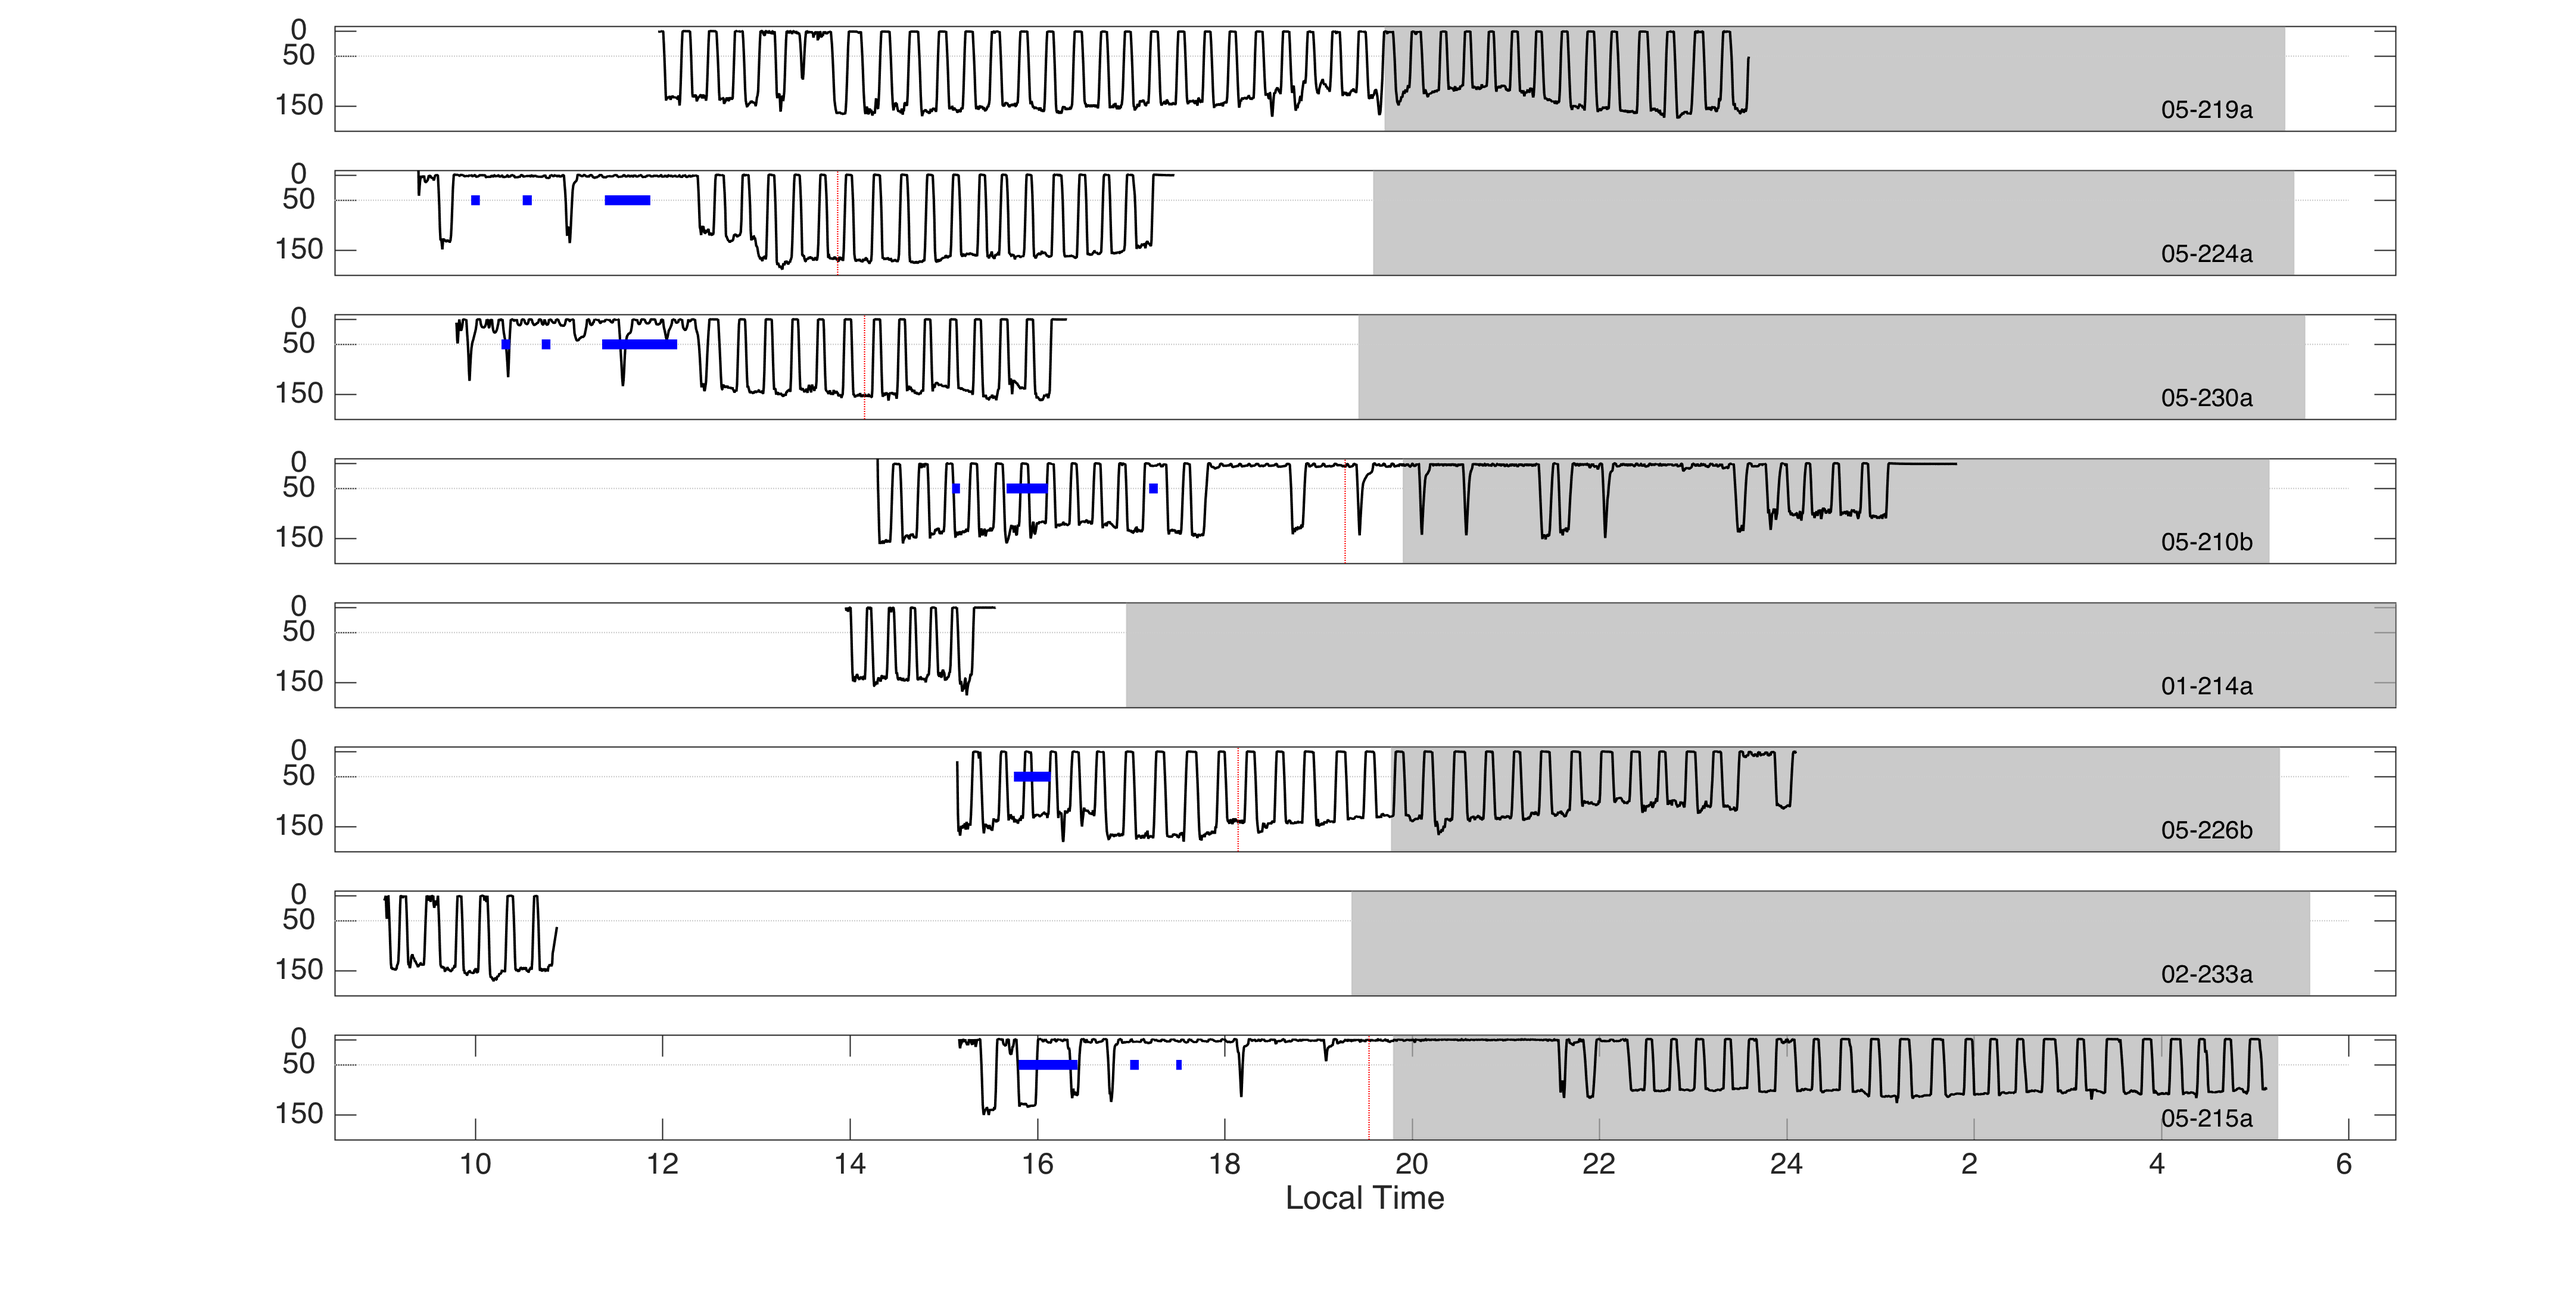
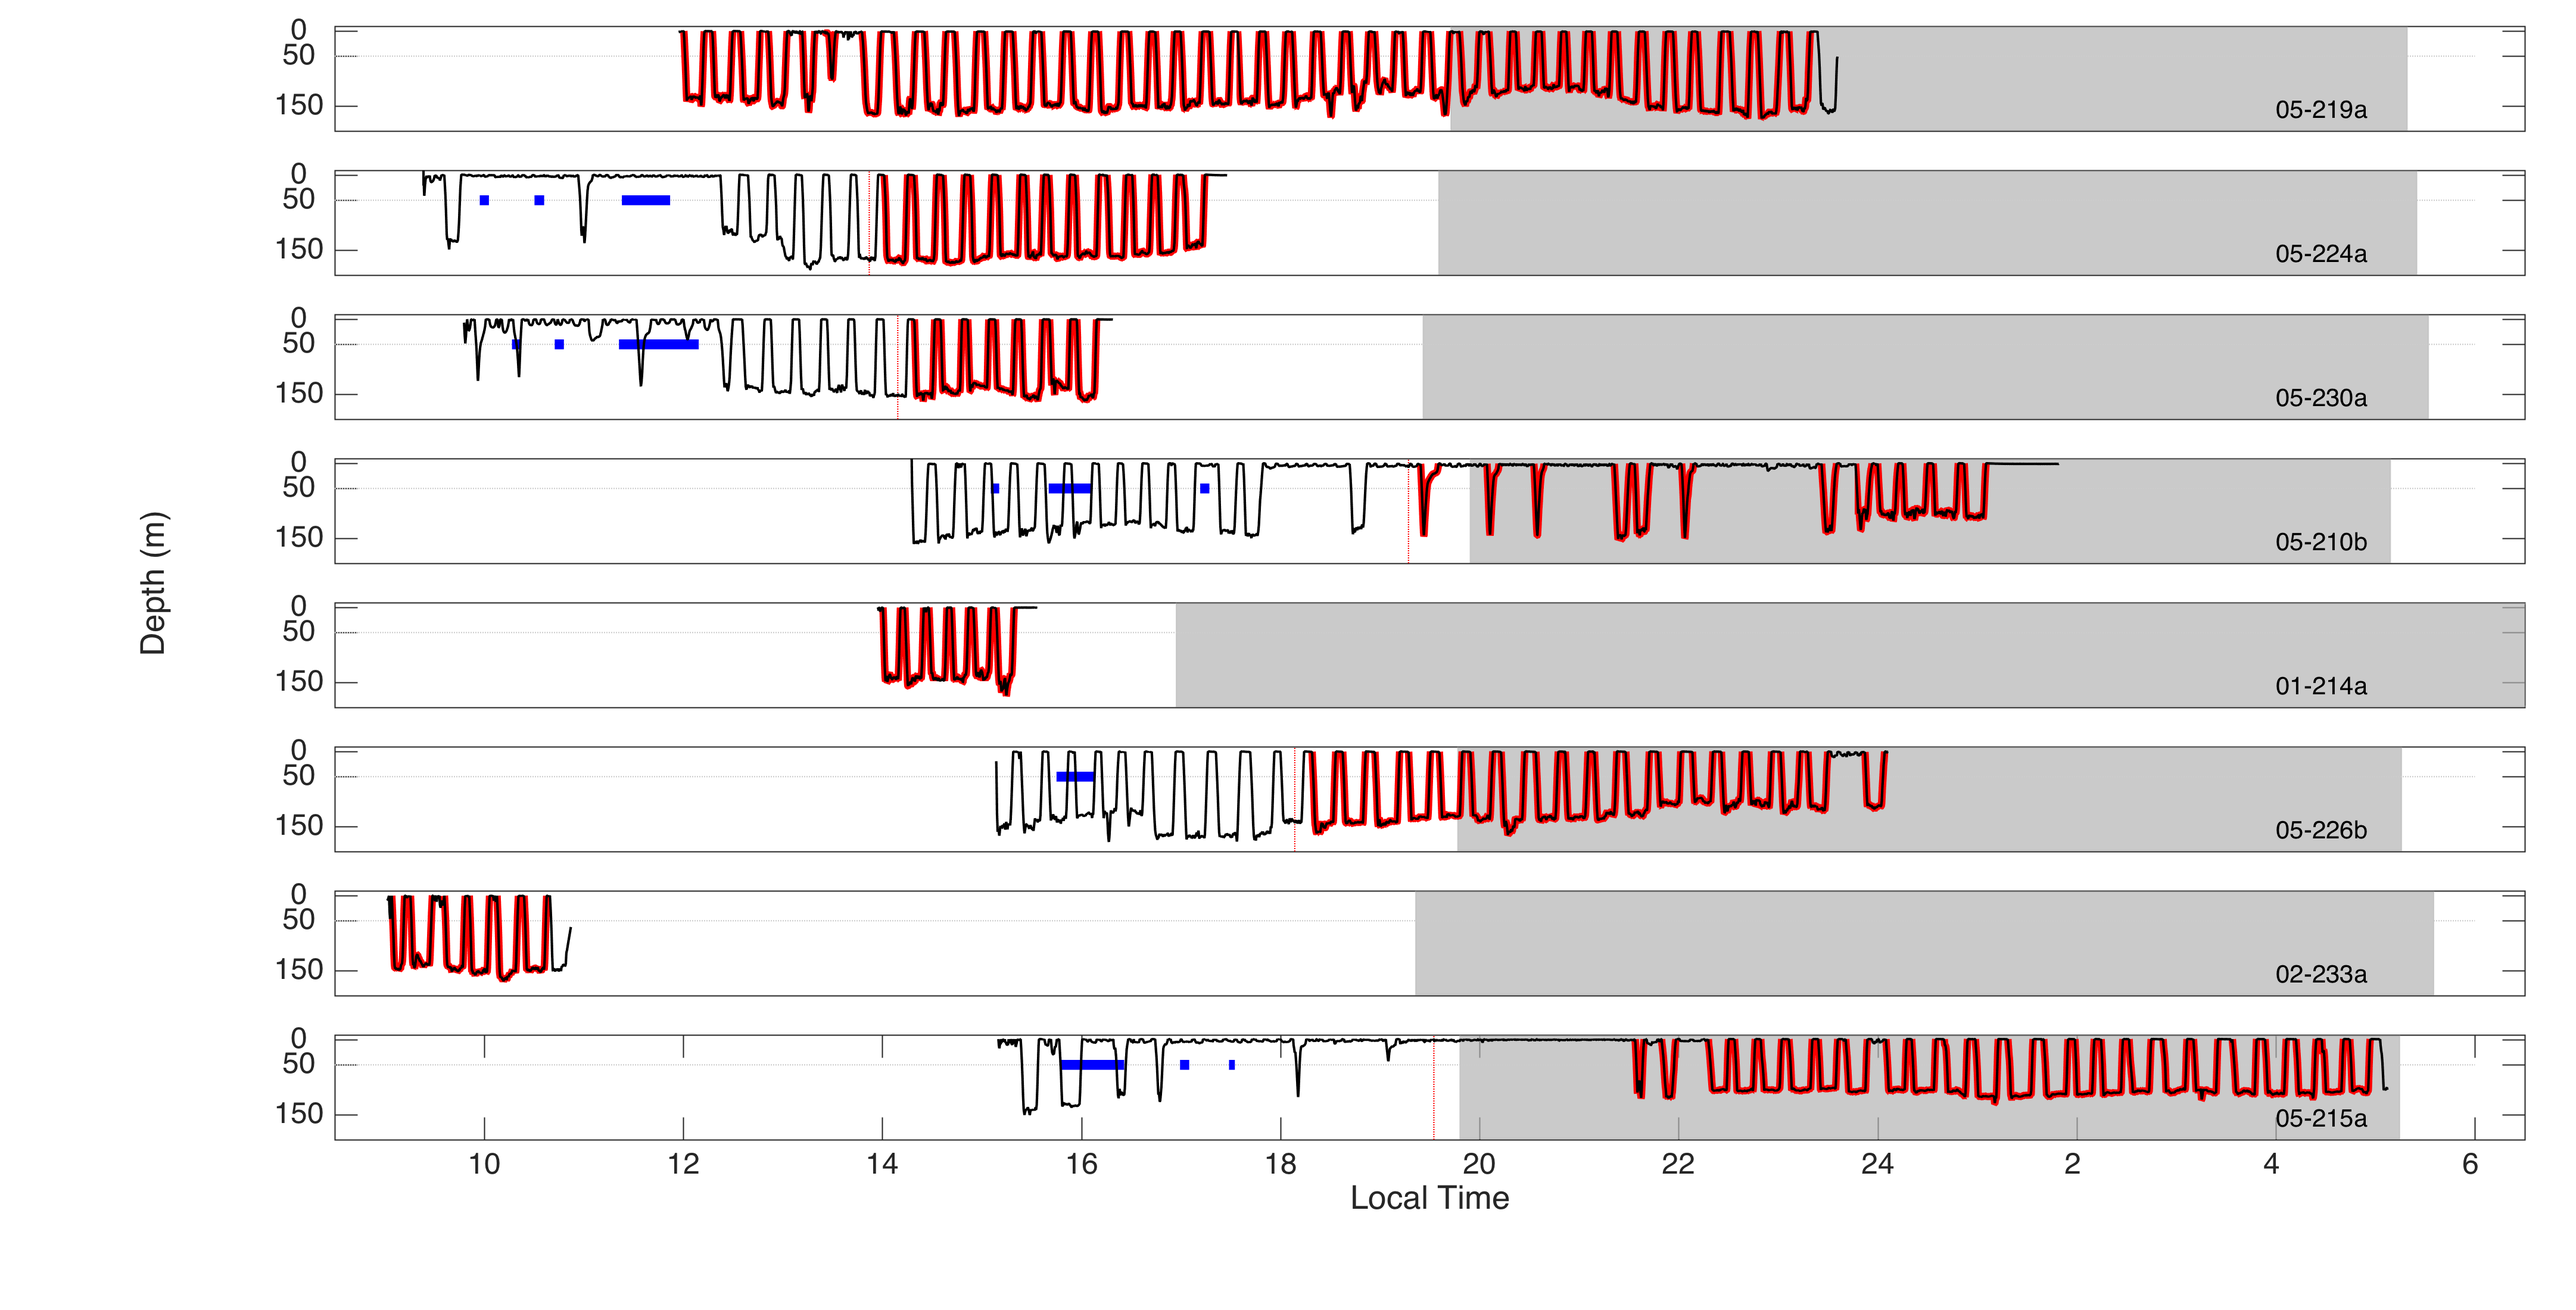
select dives after analysis start, plot

diff --git a/NARW_plotAlldives.m b/NARW_plotAlldives.m
@@ -14,12 +14,8 @@ for i = 1:length(tags)
     loadprh(tag);
     
     % cut depth to time of tag off
-    %p = p(1:tags{i,3});
     t = (1:length(p))/fs/3600; % compute time vector
     
-    % how many dives > 50 m
-    T = finddives(p,fs,50,1);
-    ddur = T(:,2)-T(:,1); % calculate duration of all dives
     
     % import flow speed for the tag
     %     load(['/Users/julievanderhoop/Dropbox (Personal)/tag/tagdata/' tag '_flowspeed.mat'])
@@ -37,7 +33,7 @@ for i = 1:length(tags)
     
     % plot by time of day
     figure(100),
-    subplot('position',[0.13 1.01-(i*0.11) 0.8 0.08]), hold on, box on
+    subplot('position',[0.13 1.01-(i*0.11) 0.85 0.08]), hold on, box on
     UTC = tags{i,2}(4:end);
     % add sunrise and sunset
     [sun_rise,sun_set] = sunRiseSet(44.55,-66.4,-4,datestr(datenum(tags{i,2}(1:3))));
@@ -48,8 +44,6 @@ for i = 1:length(tags)
     
     plot([0 30],[-50 -50],':','color',[0.8 0.8 0.8])
     
-    hh=plot((UTC(1)+UTC(2)/60+UTC(3)/3600)+[1:length(p)]/fs/3600,-p,'k','LineWidth',1);
-    
     % add playback info
     for pb = 1:size(tags{i,7},1)
         pbstart = tags{i,7}(pb,1)+tags{i,7}(pb,2)/60+tags{i,7}(pb,3)/3600; 
@@ -59,22 +53,30 @@ for i = 1:length(tags)
             % calculate time left in recording after playback
             tagend = datevec(addtodate(datenum(tags{i,2}),length(p)/fs,'second'));
             ttend(i) = etime(tagend,[tags{i,2}(1:3) tags{i,7}(end,4:6)])/3600; % time from end playback to end of recording in hours
-            astart = 2+tags{i,7}(end,4)+tags{i,7}(end,5)/60+tags{i,7}(end,6)/3600; % analysis start time
+            astart = 2+(tags{i,7}(end,4)+tags{i,7}(end,5)/60+tags{i,7}(end,6)/3600); % analysis start time: 2h after playback end
             plot([astart astart],[-200 10],'r:')
             % analysis start cue = 2h after playback end
-            astartcue = addtodate(datenum([tags{i,2}(1:3) tags{i,7}(end,4:6)]),2,'hour'); 
+            astartcue = (astart-(tags{i,2}(4)+tags{i,2}(5)/60+tags{i,2}(6)/3600))*3600*fs;
             tags{i,8} = astartcue; 
+        else astartcue = 1;
         end
     end
-    % put this here but only after astartcue 
-    % for j = 1:length(dive)
-    %         if ~isempty(dive(j).vperblock)
-    %             dcue = T(j,1):T(j,2); % time in seconds
-    %             plot((UTC(1)+UTC(2)/60+UTC(3)/3600)+(T(j,1):T(j,2))/3600,-p(round(dcue*fs)),'r','linewidth',3)
-    %         end
-    %     end
-    %
     
+    % how many dives > 50 m
+    T = finddives(p,fs,50,1);
+    T = T(find(T(:,1) > astartcue/fs),:); % keep T after start cue only 
+    ddur = T(:,2)-T(:,1); % calculate duration of all dives
+    
+    % put this here but only after astartcue 
+    for j = 1:size(T,1)
+    %         if ~isempty(dive(j).vperblock)
+                dcue = T(j,1):T(j,2); % time in seconds
+                 plot((UTC(1)+UTC(2)/60+UTC(3)/3600)+(T(j,1):T(j,2))/3600,-p(round(dcue*fs)),'r','linewidth',3)
+    %         end
+        end
+    
+    % plot actual dive profile on top 
+    hh=plot((UTC(1)+UTC(2)/60+UTC(3)/3600)+[1:length(p)]/fs/3600,-p,'k','LineWidth',1);
     
     
     ylim([-200 10]), xlim([8.5 30.5])
@@ -144,7 +146,9 @@ for i = 1:length(tags)
 end
 
 
-figure(100), xlabel('Local Time'), adjustfigurefont
+figure(100), 
+xlabel('Local Time'), [ax1,ha] = suplabel('Depth (m)','y');  
+adjustfigurefont
 set(gcf,'position',[323 145 1038 528],'paperpositionmode','auto')
 print('NARW_alldives_TOD_PB.png','-dpng','-r300')
 
